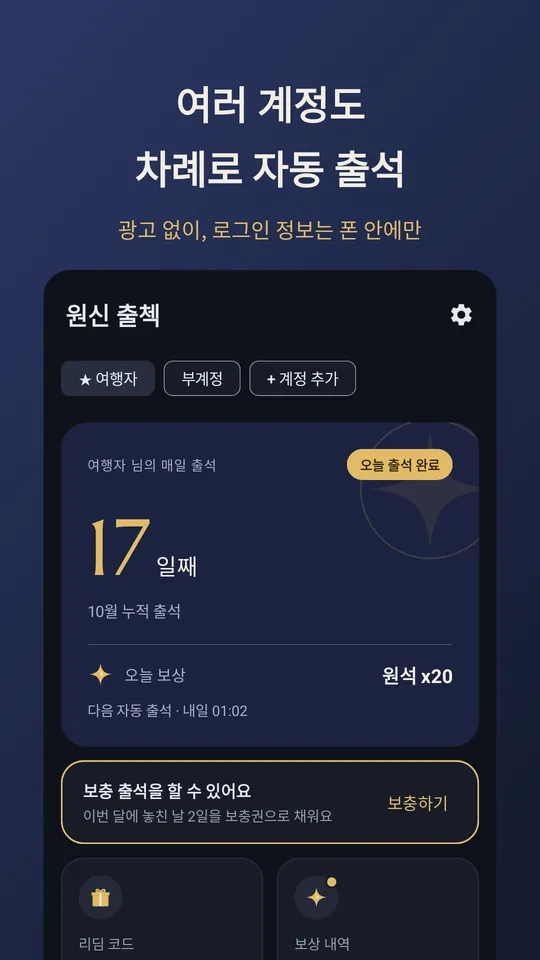
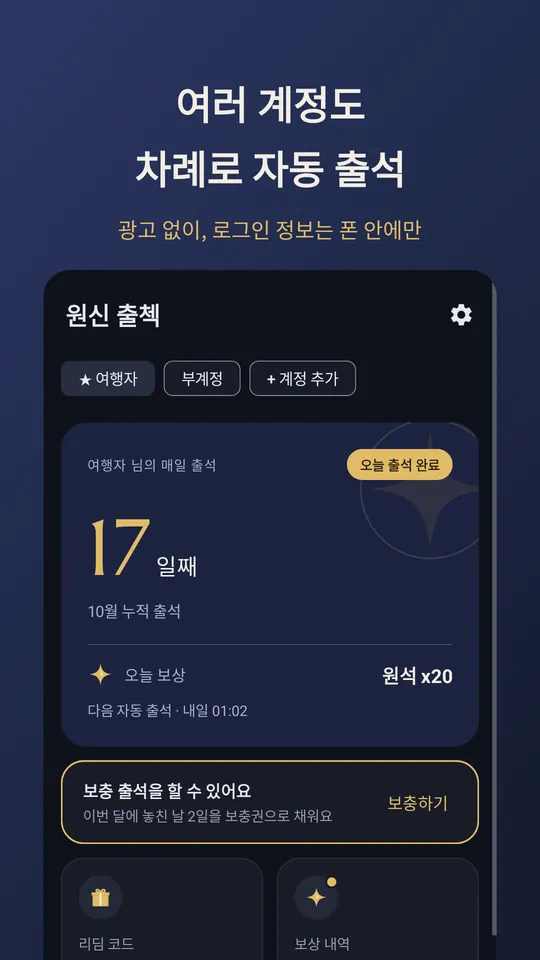
소개 페이지: 출석 보상 달력 반영

Changed region(s): [[0.8889, 0.2812, 0.9185, 0.9688]]

diff --git a/checkin/index.html b/checkin/index.html
@@ -57,7 +57,7 @@
   <h2>하는 일</h2>
   <ul class="features">
     <li><strong>리딤코드 자동 입력</strong> 방송·이벤트로 공개된 코드를 찾아 고른 서버·캐릭터로 입력해요. 원석은 게임 우편함으로 와요.</li>
-    <li><strong>새벽 1시 자동 출석</strong> 폰 시계가 아니라 호요랩 서버 시각에 맞춰, 날짜가 바뀐 직후에 출석해요.</li>
+    <li><strong>새벽 1시 자동 출석</strong> 폰 시계가 아니라 호요랩 서버 시각에 맞춰, 날짜가 바뀐 직후에 출석해요. 이번 달 출석 보상은 달력으로 한눈에 봐요.</li>
     <li><strong>보상 내역</strong> 이번 달 받은 원석·모라와 리딤 코드로 받은 보상의 합계를 한눈에 봐요.</li>
     <li><strong>보충 출석</strong> 놓친 날이 있으면 알려 주고, 누르면 바로 보충해요.</li>
     <li><strong>여러 계정, 알림 골라 받기</strong> 계정을 여러 개 등록할 수 있어요. 알림은 종류별로 끌 수 있고, 켜 둔 알림도 밤에는 소리 없이 와요.</li>
